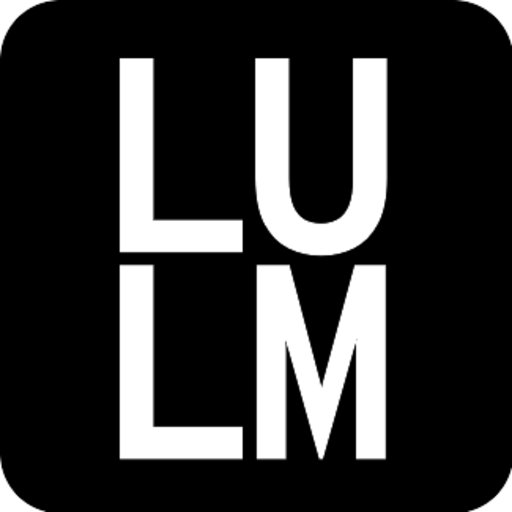
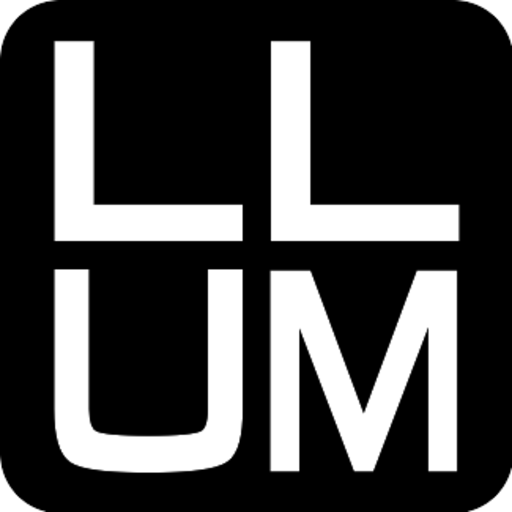
More QoL improvements

diff --git a/src/svelte-marked/markdown/components/code/MarkdownCode.svelte b/src/svelte-marked/markdown/components/code/MarkdownCode.svelte
@@ -1,6 +1,6 @@
 <script lang="ts">
 	import { flash } from '../../../../actions.js';
-	import { feCopy, feFile } from '../../../../feather.js';
+	import { feChevronDown, feChevronUp, feCopy, feFile } from '../../../../feather.js';
 	import FilePreview from '../../../../FilePreview.svelte';
 	import Icon from '../../../../Icon.svelte';
 	import type { MarkdownOptions, Renderers } from '../../markedConfiguration';
@@ -27,6 +27,9 @@
 	$: if (token.lang) {
 		attrs = parseAttributes(token.lang);
 	}
+
+	let clientHeight;
+	let showingAll = false;
 </script>
 
 {#if attrs.filename && !showCode}
@@ -56,9 +59,9 @@
 			></pre>
 	</div>
 {:else}
-	<div class="group/code relative">
+	<div class="group/code relative" bind:clientHeight>
 		<button
-			class="code-copy-button absolute right-2 top-2 flex items-center gap-1 rounded-lg border bg-white px-3 py-1.5 opacity-0 transition-opacity hover:bg-gray-100 group-hover/code:opacity-100"
+			class="code-copy-button absolute right-2 top-2 z-10 flex items-center gap-1 rounded-lg border bg-white px-3 py-1.5 opacity-0 transition-opacity hover:bg-gray-100 group-hover/code:opacity-100"
 			use:flash
 			on:click={(event) => {
 				event.currentTarget.dispatchEvent(new CustomEvent('flashSuccess'));
@@ -68,6 +71,27 @@
 			<Icon icon={feCopy} class="h-2.5 w-2.5 text-slate-700" />
 			<span class="text-xs">Copy</span>
 		</button>
-		<pre><code class={`lang-${token.lang}`}>{token.text}</code></pre>
+		{#if clientHeight > 400}
+			<div
+				class="pointer-events-none absolute bottom-4 left-0 right-0 z-10 h-16 {!showingAll
+					? 'rounded-b-lg border-b border-l border-r border-slate-200 bg-gradient-to-b from-transparent to-slate-50'
+					: ''}"
+			>
+				<button
+					class="pointer-events-auto sticky bottom-4 left-1/2 flex translate-x-[calc(-50%+24px)] items-center gap-x-1.5 self-start rounded-full bg-gray-200 px-3.5 py-2 text-left text-xs transition-colors hover:bg-gray-300"
+					on:click={() => (showingAll = !showingAll)}
+				>
+					<Icon
+						icon={showingAll ? feChevronUp : feChevronDown}
+						class="h-4 w-4 transition-transform"
+					/>
+					{showingAll ? 'Show less' : 'Show all'}
+				</button>
+			</div>
+		{/if}
+		<pre
+			class={clientHeight > 400 && !showingAll
+				? 'max-h-[400px] overflow-y-auto scrollbar-ultraslim'
+				: ''}><code class={`lang-${token.lang}`}>{token.text}</code></pre>
 	</div>
 {/if}

diff --git a/src/FilePreview.svelte b/src/FilePreview.svelte
@@ -1,9 +1,9 @@
 <script>
 	export let filename;
 	export let element = 'div';
-	let className = 'w-full px-6 py-6 my-auto';
+	let className = 'w-full px-2 py-6 my-auto';
 	export { className as class };
-	export let outerClass = 'aspect-[4/5] max-h-[160px] relative';
+	export let outerClass = 'aspect-[4/5] w-[120px] relative';
 	export let filenameClass = 'line-clamp-2 leading-relaxed';
 	export let badgeClass = '';
 </script>
@@ -11,7 +11,7 @@
 <!-- svelte-ignore a11y-no-static-element-interactions -->
 <svelte:element
 	this={element}
-	class="{outerClass} group/file bg-white flex flex-col gap-2 self-start rounded-lg border border-slate-200 transition-colors hover:border-slate-300"
+	class="{outerClass} file-preview group/file bg-white flex flex-col gap-2 self-start rounded-lg border border-slate-200 transition-colors hover:border-slate-300"
 	on:click
 >
 	<div class="absolute right-[-1px] top-[-1px] bg-white">

diff --git a/src/Message.svelte b/src/Message.svelte
@@ -304,7 +304,7 @@
 										/>
 										{#if contentHeight > 400}
 											<button
-												class="sticky bottom-4 left-1/2 flex translate-x-[calc(-50%-16px)] items-center gap-x-1.5 self-start rounded-full bg-gray-200 px-3.5 py-2 text-left text-xs transition-colors hover:bg-gray-300"
+												class="sticky z-10 bottom-4 left-1/2 flex translate-x-[calc(-50%+32px)] items-center gap-x-1.5 self-start rounded-full bg-gray-200 px-3.5 py-2 text-left text-xs transition-colors hover:bg-gray-300"
 												on:click={() => {
 													message.thoughtsExpanded = !message.thoughtsExpanded;
 													saveMessage(message);

diff --git a/src/App.svelte b/src/App.svelte
@@ -990,7 +990,7 @@
 		if ($params.reasoningEffort == null) {
 			$params.reasoningEffort = {
 				'low-medium-high': 'medium',
-				range: 32000,
+				range: 64000,
 			};
 		}
 
@@ -1428,5 +1428,10 @@
 	/* Fix code copy button positioning */
 	:global(.markdown.prose p + .group\/code .code-copy-button) {
 		@apply top-6;
+	}
+
+	/* File previews spacing */
+	:global(.markdown.prose .file-preview:not(:last-of-type)) {
+		@apply mb-4;
 	}
 </style>

diff --git a/index.html b/index.html
@@ -2,7 +2,7 @@
 <html lang="en">
   <head>
     <meta charset="UTF-8" />
-    <link rel="icon" type="image/svg+xml" href="/lulm.svg" />
+    <link rel="icon" type="image/svg+xml" href="/llum5.svg" />
     <link rel="icon" type="image/png" href="/ios/180.png" />
     <meta name="viewport" content="width=device-width, initial-scale=1, maximum-scale=1">
     <link rel="manifest" href="/manifest.json">

diff --git a/src/providers.js b/src/providers.js
@@ -198,7 +198,7 @@ const capabilities = {
 				modality: 'text+image->text',
 				kind: 'reasoner',
 				reasoningEffortControls: 'range',
-				reasoningEffortRange: [0, 32000],
+				reasoningEffortRange: [0, 64000],
 				reasoningTracesVisibility: 'visible-and-redacted',
 				reinsertReasoningTracesOnSubmit: true,
 				maxTokensDefault: 128000,

diff --git a/src/stores.js b/src/stores.js
@@ -9,7 +9,7 @@ export const params = persisted('params', {
 	messagesContextLimit: 0,
 	reasoningEffort: {
 		'low-medium-high': 'medium',
-		range: 32000,
+		range: 64000,
 	},
 });
 
